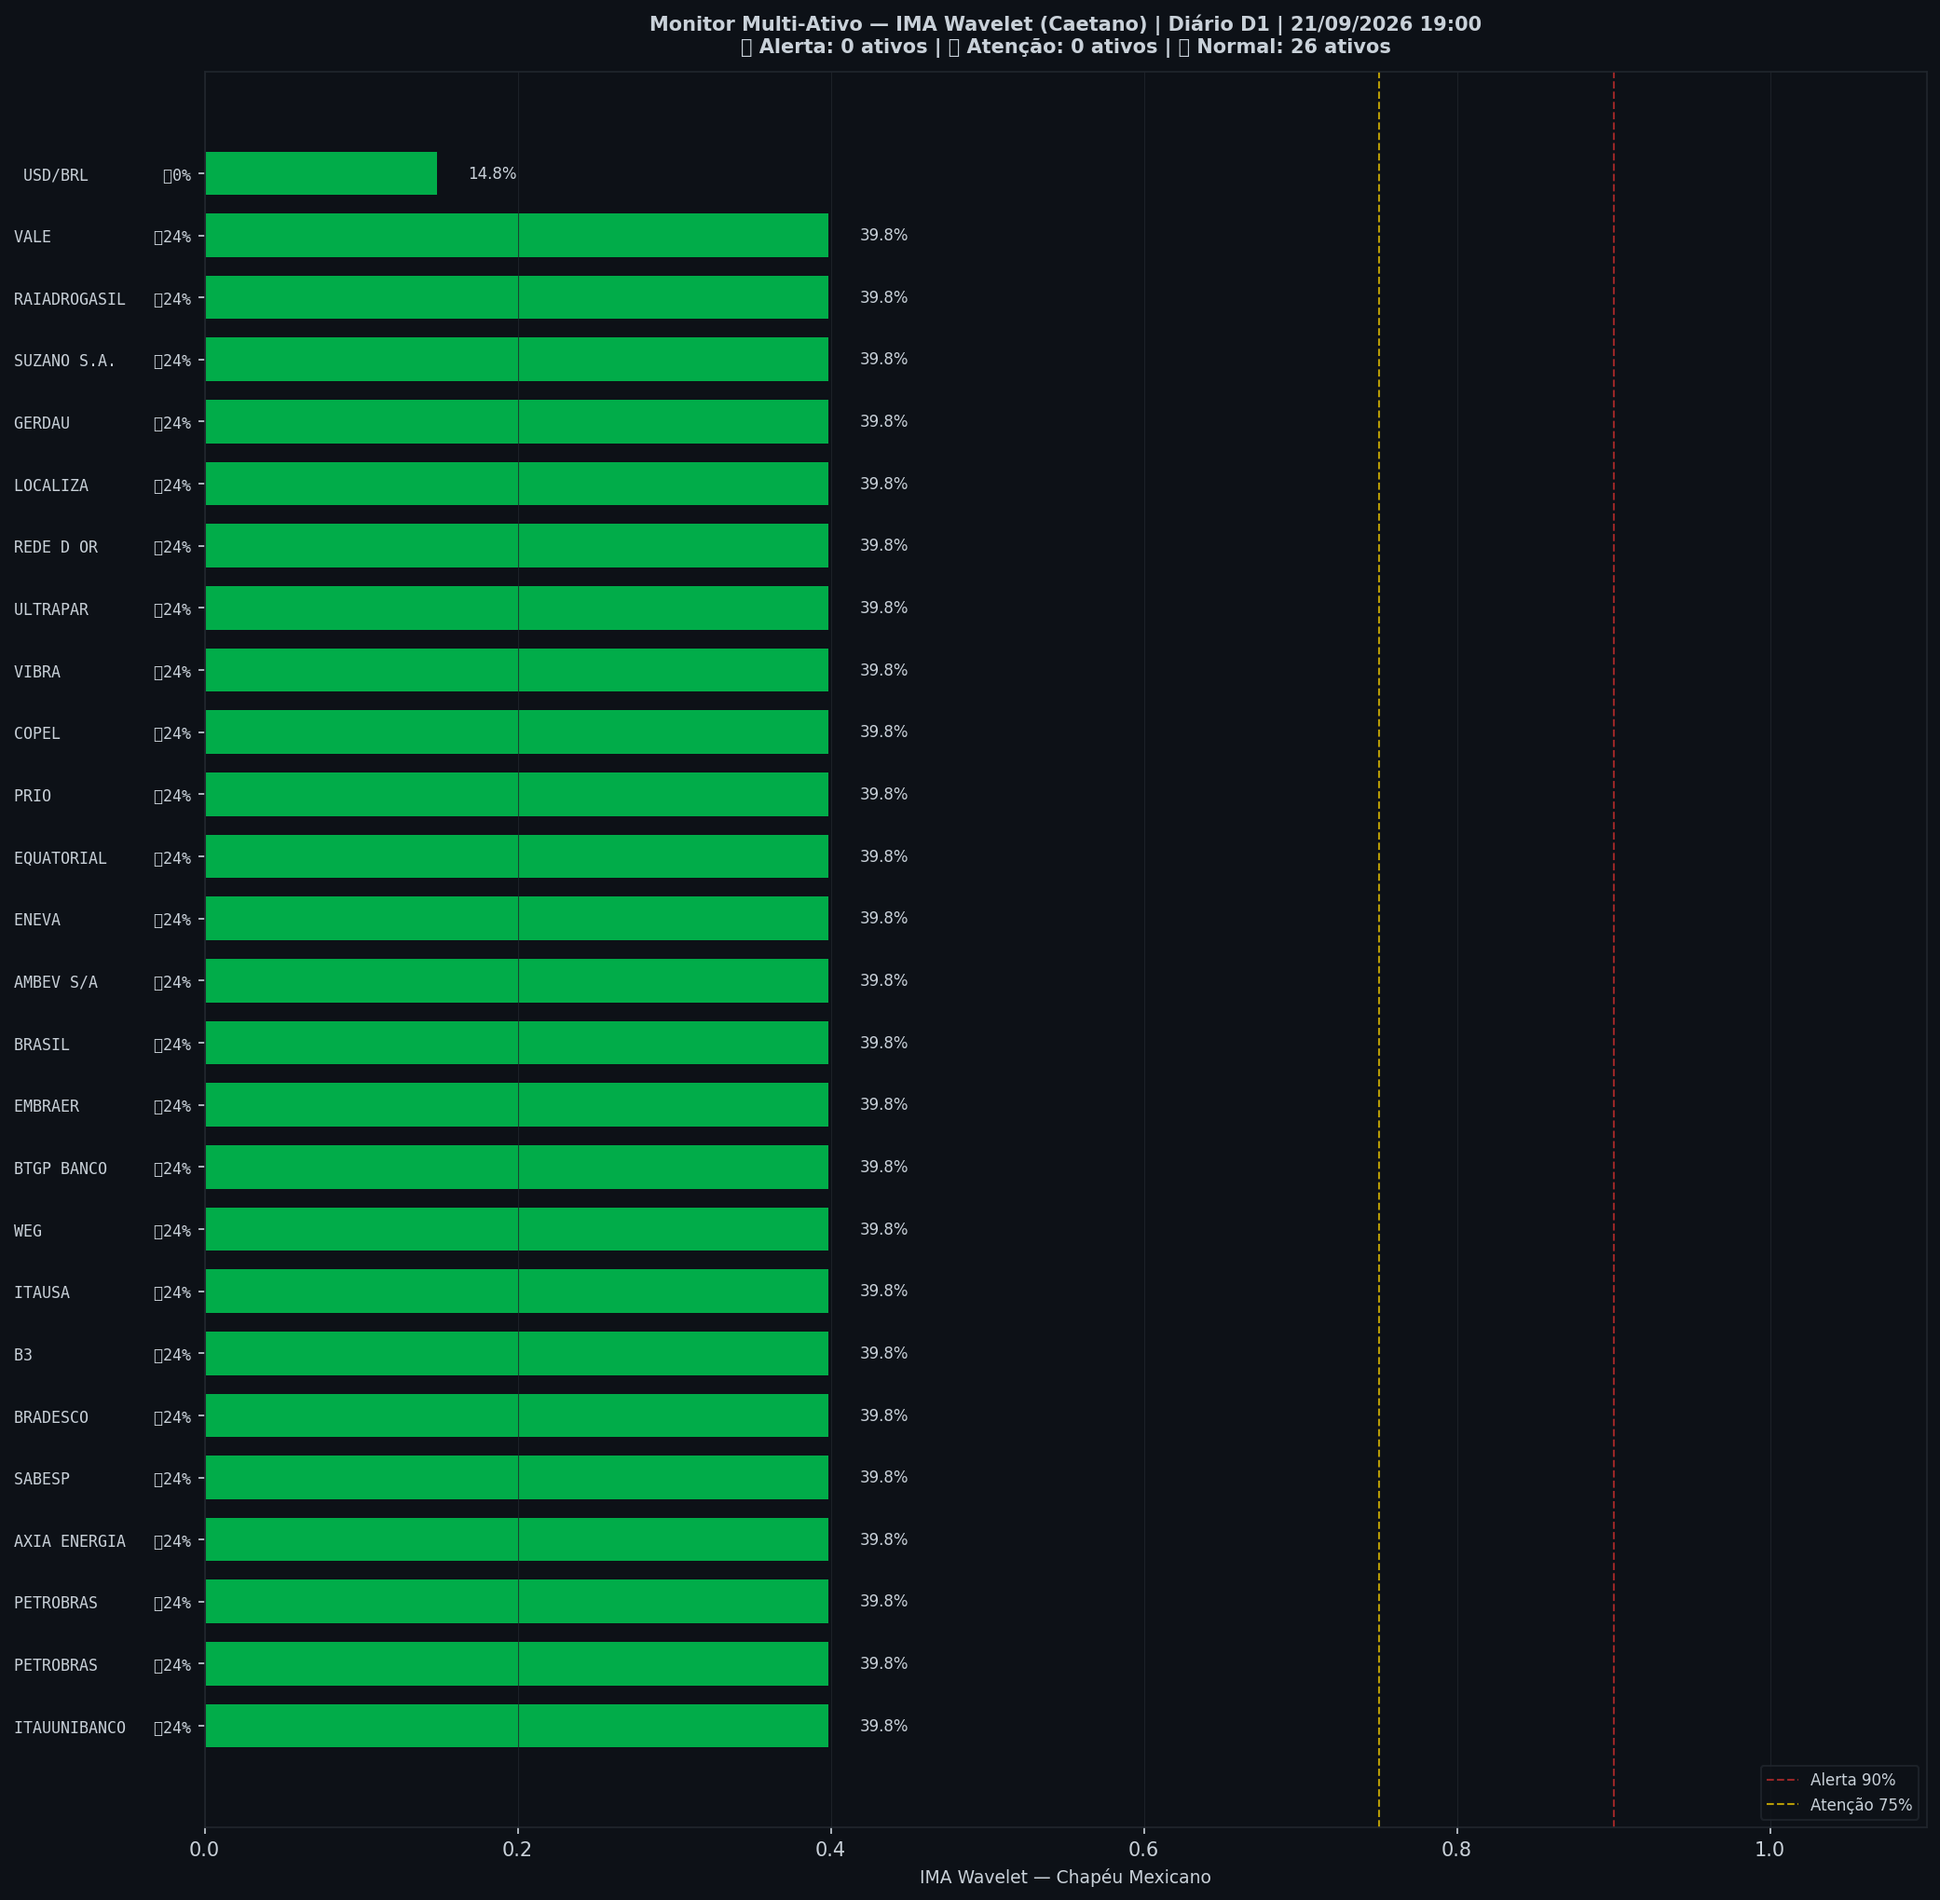
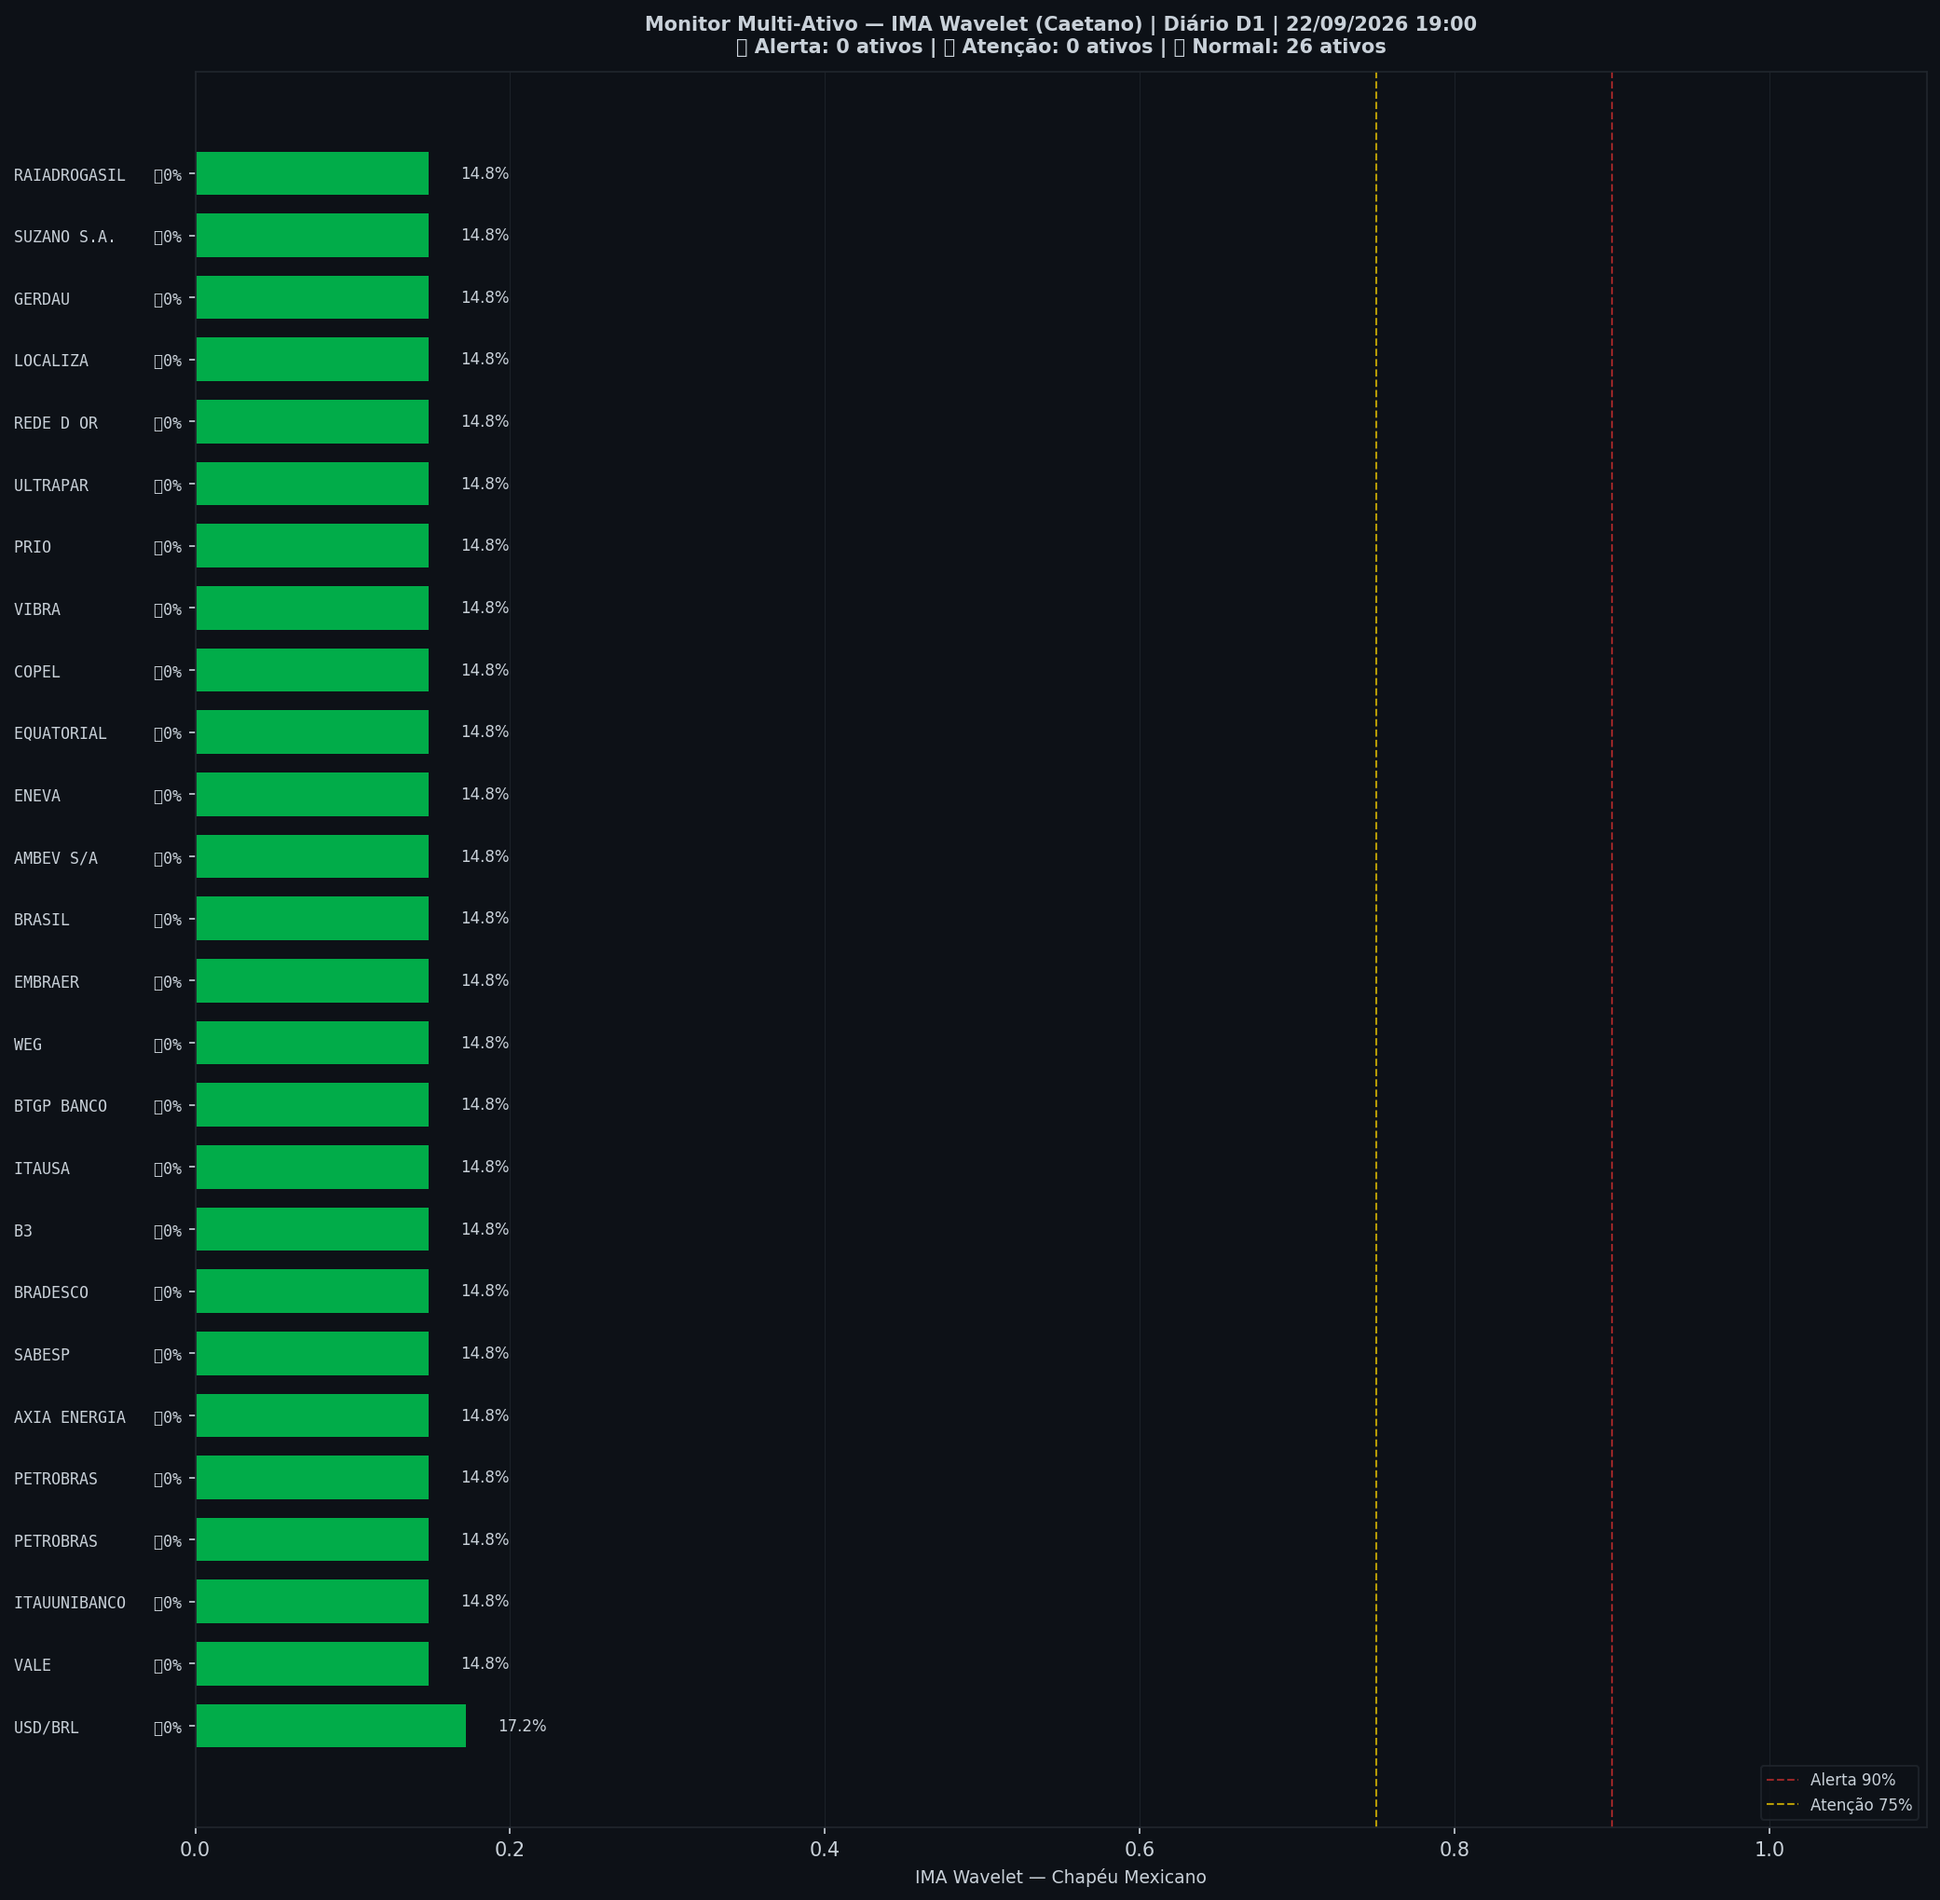
🤖 Auto: Sinal 22/09/2026 19:00

diff --git a/content/diario/2026-09-21.md b/content/diario/2026-09-21.md
@@ -1,0 +1,104 @@
+---
+title: "🟢 Diário 21/09/2026 — VERDE"
+date: 2026-09-22
+tags: [diario]
+---
+
+> [!success] 🟢 **VERDE** — Risco 0% · ▼ -1 p.p. vs leitura anterior
+> `░░░░░░░░░░░░░░░░░░░░`
+> Mercado sem sinais relevantes de estresse.
+
+
+| Indicador | Valor |
+|---|---|
+| 🔴 ζ Crash — severidade da queda em curso | **0%** |
+| 🔵 ζ Entrada — estrutura de fundo | 3% |
+| 🫧 LPPL DS-Confidence | 0% |
+| 📊 Ibovespa | 187.423 pts |
+
+![Gráfico do sinal](../graficos/sinal_diario.png)
+
+## Últimos 30 pregões
+
+| Data | Zona | Risco | IMA Crash | Entrada | LPPL |
+|---|---|---|---|---|---|
+| 2026-09-21 21:00 | 🟢 VERDE | **0%** | 0% | 3% | 0% |
+| 2026-09-20 21:00 | 🟢 VERDE | **1%** | 2% | 4% | 0% |
+| 2026-09-17 21:00 | 🟢 VERDE | **4%** | 7% | 3% | 0% |
+| 2026-09-16 21:00 | 🟢 VERDE | **9%** | 15% | 2% | 0% |
+| 2026-09-15 21:00 | 🟢 VERDE | **11%** | 18% | 2% | 0% |
+| 2026-09-14 21:00 | 🟢 VERDE | **37%** | 62% | 0% | 0% |
+| 2026-09-13 21:00 | 🟢 VERDE | **32%** | 53% | 0% | 0% |
+| 2026-09-10 21:00 | 🟢 VERDE | **30%** | 50% | 0% | 0% |
+| 2026-09-09 21:00 | 🟢 VERDE | **27%** | 45% | 0% | 0% |
+| 2026-09-08 21:00 | 🟢 VERDE | **22%** | 37% | 0% | 0% |
+| 2026-09-07 21:00 | 🟢 VERDE | **17%** | 28% | 0% | 0% |
+| 2026-09-03 21:00 | 🟢 VERDE | **6%** | 10% | 1% | 0% |
+| 2026-09-02 21:00 | 🟢 VERDE | **3%** | 5% | 5% | 0% |
+| 2026-09-01 21:00 | 🟢 VERDE | **8%** | 14% | 2% | 0% |
+| 2026-08-31 21:00 | 🟢 VERDE | **8%** | 12% | 0% | 0% |
+| 2026-08-30 21:00 | 🟢 VERDE | **8%** | 12% | 0% | 0% |
+| 2026-08-27 21:00 | 🟢 VERDE | **6%** | 9% | 0% | 0% |
+| 2026-08-26 21:00 | 🟢 VERDE | **4%** | 6% | 1% | 0% |
+| 2026-08-25 21:00 | 🟢 VERDE | **2%** | 4% | 6% | 0% |
+| 2026-08-24 21:00 | 🟢 VERDE | **0%** | 1% | 14% | 0% |
+| 2026-08-23 21:00 | 🟢 VERDE | **0%** | 0% | 21% | 0% |
+| 2026-08-20 21:00 | 🟢 VERDE | **0%** | 0% | 25% | 0% |
+| 2026-08-19 21:00 | 🟢 VERDE | **0%** | 0% | 27% | 0% |
+| 2026-08-18 21:00 | 🟢 VERDE | **0%** | 0% | 27% | 0% |
+| 2026-08-17 21:00 | 🟢 VERDE | **0%** | 0% | 26% | 0% |
+| 2026-08-16 21:00 | 🟢 VERDE | **0%** | 0% | 25% | 0% |
+| 2026-08-13 21:00 | 🟢 VERDE | **0%** | 0% | 23% | 0% |
+| 2026-08-12 21:00 | 🟢 VERDE | **0%** | 0% | 20% | 0% |
+| 2026-08-11 21:00 | 🟢 VERDE | **0%** | 0% | 65% | 0% |
+| 2026-08-10 21:00 | 🟢 VERDE | **0%** | 1% | 62% | 0% |
+
+## Monitor Multi-Ativo
+
+**0% dos ativos em tensão** (0🔴 0🟡) — quanto mais ativos disparam juntos, mais confiável o sinal.
+
+| Zona | Ativo | Setor | IMA Crash | IMA Entrada |
+|---|---|---|---|---|
+| 🟢 | **USD/BRL** | Câmbio | 17.2% | 0.0% |
+| 🟢 | **VALE** | Mineração | 14.8% | 0.0% |
+| 🟢 | **ITAUUNIBANCO** | Financeiro | 14.8% | 0.0% |
+| 🟢 | **PETROBRAS** | Petróleo | 14.8% | 0.0% |
+| 🟢 | **PETROBRAS** | Petróleo | 14.8% | 0.0% |
+| 🟢 | **AXIA ENERGIA** | Energia | 14.8% | 0.0% |
+| 🟢 | **SABESP** | Saneamento | 14.8% | 0.0% |
+| 🟢 | **BRADESCO** | Financeiro | 14.8% | 0.0% |
+| 🟢 | **B3** | Financeiro | 14.8% | 0.0% |
+| 🟢 | **ITAUSA** | Financeiro | 14.8% | 0.0% |
+| 🟢 | **BTGP BANCO** | Financeiro | 14.8% | 0.0% |
+| 🟢 | **WEG** | Industrial | 14.8% | 0.0% |
+| 🟢 | **EMBRAER** | Outros | 14.8% | 0.0% |
+| 🟢 | **BRASIL** | Financeiro | 14.8% | 0.0% |
+| 🟢 | **AMBEV S/A** | Consumo | 14.8% | 0.0% |
+| 🟢 | **ENEVA** | Energia | 14.8% | 0.0% |
+| 🟢 | **EQUATORIAL** | Energia | 14.8% | 0.0% |
+| 🟢 | **COPEL** | Energia | 14.8% | 0.0% |
+| 🟢 | **VIBRA** | Energia | 14.8% | 0.0% |
+| 🟢 | **PRIO** | Petróleo | 14.8% | 0.0% |
+| 🟢 | **ULTRAPAR** | Outros | 14.8% | 0.0% |
+| 🟢 | **REDE D OR** | Saúde | 14.8% | 0.0% |
+| 🟢 | **LOCALIZA** | Aluguel | 14.8% | 0.0% |
+| 🟢 | **GERDAU** | Siderurgia | 14.8% | 0.0% |
+| 🟢 | **SUZANO S.A.** | Papel/Celulose | 14.8% | 0.0% |
+| 🟢 | **RAIADROGASIL** | Outros | 14.8% | 0.0% |
+
+![Monitor multi-ativo](../graficos/multi_diario.png)
+
+*Página atualizada em 22/09/2026 19:00 BRT (leitura da barra de 2026-09-21 BRT).*
+
+> [!info]- Como interpretar (clique para expandir)
+> - **ζ Crash**: fração dos coeficientes wavelet acima do corte (Caetano & Yoneyama 2009). Escala absoluta: ζ=0,90 = 90% dos coeficientes anômalos — historicamente, quedas com ζ≥0,90 foram mais fundas e mais longas. **Mede a severidade do movimento em curso, não prevê o início da queda.**
+> - **ζ Entrada**: coeficientes negativos além do corte — estrutura de fundo, possível região de compra.
+> - **LPPL DS-Confidence**: fração de janelas (60–504 pregões) em que o modelo de bolha de Sornette produz um ajuste válido. 30% já é relevante; acima de 50% é forte evidência de estrutura de bolha.
+> - **Zonas com histerese**: o sinal só muda de zona ao cruzar o limiar de entrada, e só volta ao cruzar o de saída — evita flip-flop diário.
+
+
+---
+*Sinal de Crise B3 v4 · IMA Wavelet ([Caetano & Yoneyama, Physica-A 2007](https://doi.org/10.1016/j.physa.2007.03.054)) + LPPL DS-Confidence (Sornette, ETH-Zurich) · [Metodologia](metodologia) · [Histórico](historico)*
+
+> [!quote]- Aviso
+> Estudo acadêmico. Não constitui recomendação de investimento.

diff --git a/content/index.md b/content/index.md
@@ -8,19 +8,19 @@ tags: [home]
 
 Monitoramento diário e intraday do Ibovespa — **IMA Wavelet** (Prof. Marco Antonio Leonel Caetano, ITA/INSPER) + **LPPL DS-Confidence** (Prof. Didier Sornette, ETH-Zurich).
 
-*Última atualização: 22/09/2026 17:31 BRT · ^BVSP · Intraday 15min · v4*
+*Última atualização: 22/09/2026 19:00 BRT · ^BVSP · Diário D1 · v4*
 
-> [!success] 🟢 **VERDE** — Risco 27% · ▲ +2 p.p. vs leitura anterior
-> `█████░░░░░░░░░░░░░░░`
+> [!success] 🟢 **VERDE** — Risco 0% · ▼ -1 p.p. vs leitura anterior
+> `░░░░░░░░░░░░░░░░░░░░`
 > Mercado sem sinais relevantes de estresse.
 
 
 | Indicador | Valor |
 |---|---|
-| 🔴 ζ Crash — severidade da queda em curso | **27%** |
-| 🔵 ζ Entrada — estrutura de fundo | 0% |
+| 🔴 ζ Crash — severidade da queda em curso | **0%** |
+| 🔵 ζ Entrada — estrutura de fundo | 3% |
 | 🫧 LPPL DS-Confidence | 0% |
-| 📊 Ibovespa | 187.466 pts |
+| 📊 Ibovespa | 187.423 pts |
 
 **Multi-ativo:** 0% em tensão (0🔴 0🟡 de 26 ativos)
 
@@ -32,8 +32,13 @@ Monitoramento diário e intraday do Ibovespa — **IMA Wavelet** (Prof. Marco An
 
 | Data | Zona | Risco | IMA | LPPL |
 |---|---|---|---|---|
-| [22 Sep 2026](diario/2026-09-22) | 🟢 VERDE | **27%** | 27% | 0% |
 | [21 Sep 2026](diario/2026-09-21) | 🟢 VERDE | **0%** | 0% | 0% |
+| [20 Sep 2026](diario/2026-09-20) | 🟢 VERDE | **1%** | 2% | 0% |
+| [17 Sep 2026](diario/2026-09-17) | 🟢 VERDE | **4%** | 7% | 0% |
+| [16 Sep 2026](diario/2026-09-16) | 🟢 VERDE | **9%** | 15% | 0% |
+| [15 Sep 2026](diario/2026-09-15) | 🟢 VERDE | **11%** | 18% | 0% |
+| [14 Sep 2026](diario/2026-09-14) | 🟢 VERDE | **37%** | 62% | 0% |
+| [13 Sep 2026](diario/2026-09-13) | 🟢 VERDE | **32%** | 53% | 0% |
 
 ## Navegação
 

diff --git a/content/historico.md b/content/historico.md
@@ -7,6 +7,7 @@ tags: [historico]
 
 | Data | Modo | Zona | Risco | IMA | LPPL |
 |---|---|---|---|---|---|
+| 2026-09-21 | diario | 🟢 VERDE | 0% | 0% | 0% |
 | 2026-09-22 16:45 | intraday | 🟢 VERDE | 27% | 27% | 0% |
 | 2026-09-22 16:30 | intraday | 🟢 VERDE | 25% | 25% | 0% |
 | 2026-09-22 16:15 | intraday | 🟢 VERDE | 23% | 23% | 0% |
